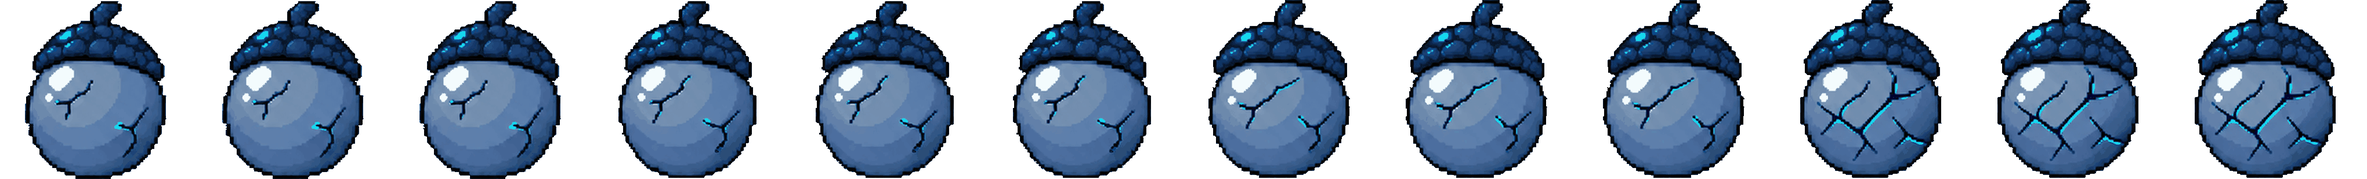
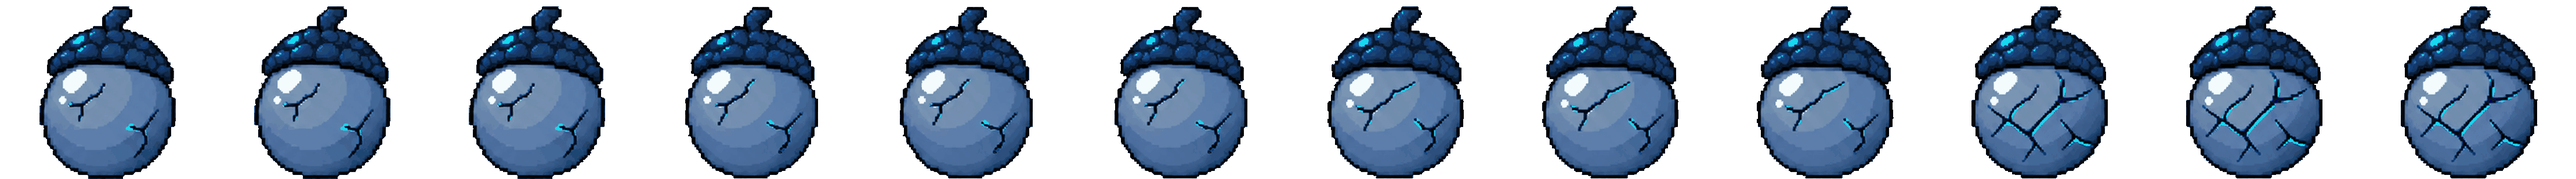
Redraw the three Static Egg idles, keeping the transitions
The replacement idles hardly drift - 2px of baseline, 8px of centre, no
swell at all, where the sheets they replace moved 23px, 48px and 6%. The two
transitions are unchanged art, but they still carry the old drift, so all
five are packed in one pass rather than the idles alone. Packing only the
idles would have given them a different frame from the transitions, and the
egg would jump at every handover - the one thing this packing exists to
prevent. Across all sixty frames the drift is now 1px, 1px and 2px.

Checked the chain frame by frame: each transition still ends on the shell
its new idle opens with, crack shape included, so nothing had to be redrawn
to meet them.

The shared frame grew to 370x310, so scale and offset were solved against
the Cinder Egg again; both eggs sit at the same silhouette height and
baseline within a device pixel.

Claude-Session: https://claude.ai/code/session_01YRzrKPfiP3SQKKej9Vjk7N

diff --git a/index.html b/index.html
@@ -1536,10 +1536,10 @@ const LEVEL_UP_ART = {
   // frame 7 of 12, the spread on frame 10. Measured off the sheets rather than
   // copied from the Cinder Egg, which cracks on 9 both times.
   "nimbus:0@2": levelUpClip({ src:"art/nimbus-egg-crack-1.png", frames:12,
-    gather:2, burst:7, aspect:1.097, scale:0.832, dx:1.40, dy:-1.49,
+    gather:2, burst:7, aspect:1.194, scale:0.932, dx:0.00, dy:-2.19,
     cap:{ top:12, right:45 } }),
   "nimbus:0@3": levelUpClip({ src:"art/nimbus-egg-crack-2.png", frames:12,
-    gather:2, burst:10, aspect:1.097, scale:0.832, dx:1.40, dy:-1.49,
+    gather:2, burst:10, aspect:1.194, scale:0.932, dx:0.00, dy:-2.19,
     cap:{ top:12, right:45 } }),
   // this one scowls and shuts its eyes for four frames before any gold shows,
   // so its build is shorter in frames and each of them holds longer. `cap`
@@ -2558,7 +2558,7 @@ const DEFAULT_SPRITES = {
     // and anchored to one point. The body is the largest blob, so the sparkles
     // that come and go cannot drag the anchor with them.
     src:"art/nimbus-egg.png",
-    frames:12, rows:1, fps:2, aspect:1.097, scale:0.832, dx:1.40, dy:-1.49
+    frames:12, rows:1, fps:2, aspect:1.194, scale:0.932, dx:0.00, dy:-2.19
   },
   "nimbus:1": {
     src:"art/nimbus-puffling.png",
@@ -2604,7 +2604,7 @@ function spriteConfig(species, stage){
    already has one will happily go on showing the old drawing. Bump this and
    every cache along the way fetches the new file. Only the sheets that ship
    with the app are stamped; a sheet you point at yourself is used verbatim. */
-const ART_VERSION = "13";
+const ART_VERSION = "14";
 function assetURL(src){
   return /^art\//.test(src) ? src + "?v=" + ART_VERSION : src;
 }

diff --git a/README.md b/README.md
@@ -158,13 +158,15 @@ background in from the border rather than keying every neutral pixel, or the
 white highlight on the shell goes with it.
 
 The Static Egg — Nimbus's acorn — followed, as five sheets in the same shape.
-Those arrived with real transparency, so no keying was needed, but their grid
-drifted: across the sixty frames the egg's baseline moves 23px, its centre 48px,
-and the body swells 6%. Every frame of every phase is normalised to one body
-size and anchored to one point, measuring the body as the largest connected blob
-so the sparkles that come and go cannot drag the anchor with them. Left alone
-the acorn would creep across its own loop and jump at every handover between
-phases; after packing the three drifts are 2px, 2px and 4px.
+Those arrived with real transparency, so no keying was needed. The three idles
+were later redrawn and barely drift at all — 2px of baseline, 8px of centre and
+no swell whatever, against 23px, 48px and 6% in the sheets they replaced — but
+the two transitions are still the earlier art and still drift, so all five are
+packed together in one pass: one body size, one anchor, one frame. Packing the
+idles alone would have left them a different shape from the transitions and the
+egg would jump at every handover. The body is measured as the largest connected
+blob, so the sparkles that come and go cannot drag the anchor with them. After
+packing, the drift across all sixty frames is 1px, 1px and 2px.
 
 The two transition sheets hold each crack state for two or three frames rather
 than drawing twelve distinct ones — the sparkles change underneath, the shell
